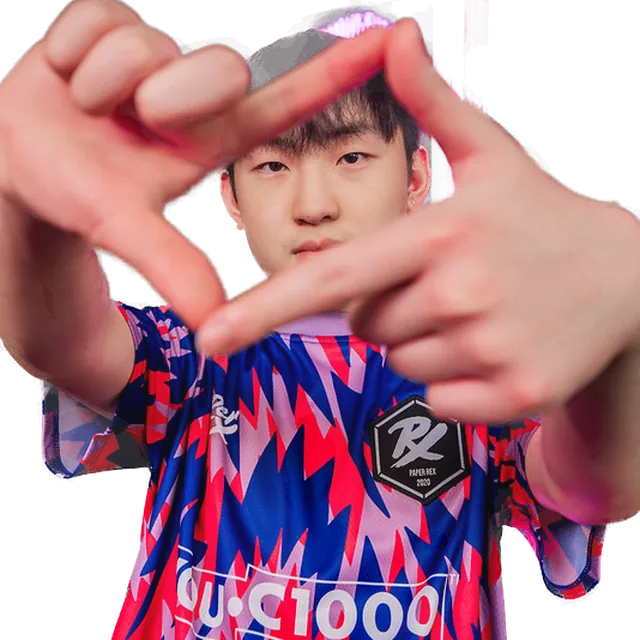
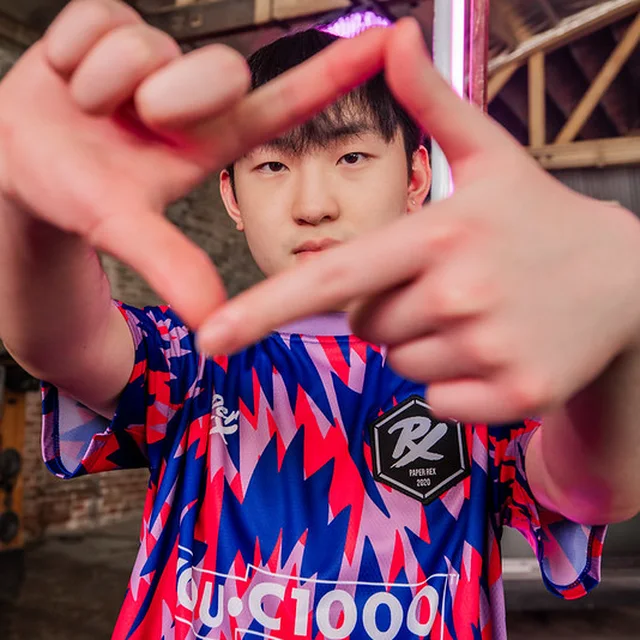
洛杉矶 2023: Jinggg pinned to his first-version photo and face style (owner: 保持第一版，以后不要改)
Faces carry a style per card ('raw' first-version window, 'cut' cutout); losangeles2023_faces.py
rebuilds a kept card byte-for-byte as v1 and never cuts or grades it; the share painter follows the style.

diff --git a/src/ui/cards/LosAngelesDesign.tsx b/src/ui/cards/LosAngelesDesign.tsx
@@ -1,7 +1,7 @@
 import { useState } from 'react'
 import type { CardFaceProps } from '../Card'
 import type { PlayerCard } from '../../engine/cards'
-import { LOS_ANGELES_META, LOS_ANGELES_TOTAL } from '../../engine/losangeles2023'
+import { LOS_ANGELES_META, LOS_ANGELES_TOTAL, losAngelesFace } from '../../engine/losangeles2023'
 import { natCountry } from '../../engine/nat'
 import './losAngeles2023.css'
 
@@ -22,6 +22,8 @@ export interface LosAngelesPlayer {
   evolved?: boolean
   /** the team's caller: an IGL tag after the team */
   igl?: boolean
+  /** how the photo sits on the art: 'cut' (the player cut out of his frame) or 'raw' (the frame as shot, the first version's window) */
+  photoStyle?: string
 }
 const tiers = { gold: '金卡', silver: '银卡', bronze: '铜卡' }
 
@@ -38,7 +40,7 @@ export function LosAngelesCard({ player, rarity = 'gold', blank = false, footer 
   return <article className={`la-card la-front la-${rarity}`} aria-label={`${player.ign} 洛杉矶 2023 ${tiers[rarity]}`}>
     <Scene /><div className="la-year" aria-hidden="true">23</div>
     <header className="la-front-header"><span>CHAMPIONS<br /><b>LOS ANGELES</b></span><LosAngelesEmblem /></header>
-    <div className="la-photo">{showPhoto ? <img src={player.photo} alt={player.ign} onError={() => setFailed(player.photo)} /> : <div className="la-placeholder">PLAYER PORTRAIT<span>选手照片预留</span></div>}</div>
+    <div className={`la-photo la-photo-${player.photoStyle ?? 'raw'}`}>{showPhoto ? <img src={player.photo} alt={player.ign} onError={() => setFailed(player.photo)} /> : <div className="la-placeholder">PLAYER PORTRAIT<span>选手照片预留</span></div>}</div>
     <span className="la-vertical">ONE MORE / 再进一步</span>
     <div className="la-front-shade" />
     <div className="la-rating"><b>{player.rating ?? '—'}</b><span>{player.label ?? '总评'}{player.evolved && <i className="evo-mark" title="进修过">↑</i>}</span></div>
@@ -65,6 +67,7 @@ export function LosAngelesFace({ card, level = 0, evolved = false, dupes = 0, se
     nation: (natCountry(card.nat) ?? '').toUpperCase(), number: `${pad(e.number)} / ${pad(LOS_ANGELES_TOTAL)}`,
     photo: card.face ?? undefined, rating: card.rating, acs: e.acs, kd: e.kd, maps: e.maps,
     label: `${card.role.slice(0, 2)}${level > 0 ? ` +${level}` : ''}`, evolved, igl: card.isIgl,
+    photoStyle: (losAngelesFace(e.vlrId) as { style?: string } | undefined)?.style,
   }
   return <div className={`la-face${selected ? ' sel' : ''}${dimmed ? ' dim' : ''}${onClick ? ' tap' : ''}`}
     onClick={onClick} role={onClick ? 'button' : undefined} tabIndex={onClick ? 0 : undefined}

diff --git a/src/ui/cards/shareCard.ts b/src/ui/cards/shareCard.ts
@@ -17,7 +17,7 @@ import { squadTeamIdentity, teamBackdrop } from '../../engine/teamIdentity'
 import { MAX_LEVEL, RARITY_CN, cardById, isPlayerCard } from '../../engine/cards'
 import type { Card, CoachCard, PlayerCard, Rarity, Squad } from '../../engine/cards'
 import { crestUrl } from '../../engine/dossier'
-import { LOS_ANGELES_TOTAL } from '../../engine/losangeles2023'
+import { LOS_ANGELES_TOTAL, losAngelesFace } from '../../engine/losangeles2023'
 import { qrMatrix } from '../../engine/qr'
 
 export const SHARE_URL = 'https://vctgames.com'
@@ -617,16 +617,25 @@ function paintLosAngelesSeat(
     off.width = Math.ceil(pb.w)
     off.height = Math.ceil(pb.h)
     const o = off.getContext('2d')!
-    o.filter = `saturate(.72) sepia(.12) contrast(1.05) drop-shadow(0 0 ${W(1.6)}px rgba(255,154,92,.4))`
+    // a kept first-version card (style 'raw') is the frame as shot, toned and faded on every side as .la-photo-raw is
+    const raw = (losAngelesFace(entry.vlrId) as { style?: string } | undefined)?.style !== 'cut'
+    o.filter = raw ? 'saturate(.48) sepia(.2) contrast(1.08)' : `saturate(.72) sepia(.12) contrast(1.05) drop-shadow(0 0 ${W(1.6)}px rgba(255,154,92,.4))`
     const scale = Math.max(pb.w / face.width, pb.h / face.height)
     const fw = face.width * scale, fh = face.height * scale
     o.drawImage(face, (pb.w - fw) / 2, (pb.h - fh) * 0.3, fw, fh)
     o.filter = 'none'
     o.globalCompositeOperation = 'destination-in'
     const vt = o.createLinearGradient(0, 0, 0, pb.h)
-    vt.addColorStop(0.62, '#000'); vt.addColorStop(0.97, 'rgba(0,0,0,0)')
+    if (raw) { vt.addColorStop(0, 'rgba(0,0,0,0)'); vt.addColorStop(0.12, '#000'); vt.addColorStop(0.65, '#000'); vt.addColorStop(0.99, 'rgba(0,0,0,0)') }
+    else { vt.addColorStop(0.62, '#000'); vt.addColorStop(0.97, 'rgba(0,0,0,0)') }
     o.fillStyle = vt
     o.fillRect(0, 0, pb.w, pb.h)
+    if (raw) {
+      const hz = o.createLinearGradient(0, 0, pb.w, 0)
+      hz.addColorStop(0, 'rgba(0,0,0,0)'); hz.addColorStop(0.17, '#000'); hz.addColorStop(0.85, '#000'); hz.addColorStop(1, 'rgba(0,0,0,0)')
+      o.fillStyle = hz
+      o.fillRect(0, 0, pb.w, pb.h)
+    }
     ctx.drawImage(off, pb.x, pb.y, pb.w, pb.h)
   }
   // the shade rising from the foot (.la-front-shade)

diff --git a/scripts/check_losangeles2023.ts b/scripts/check_losangeles2023.ts
@@ -26,8 +26,10 @@ ok('16 支战队，每队五人', LOS_ANGELES_TEAMS.length === 16 && LOS_ANGELES
 ok('每张卡都查得到、有照片、有出场、有位置', LOS_ANGELES_CARDS.every(c => cardById(c.id) === c && !!c.face && existsSync(`public${c.face}`)
   && c.losAngeles!.maps > 0 && c.roles.length > 0))
 ok('照片是洛杉矶冠军赛的', LOS_ANGELES_CARDS.every(c => c.face!.startsWith('/events/los-angeles-2023/') && losAngelesFace(c.losAngeles!.vlrId)?.source?.includes('flickr.com/photos/valorantesports/')))
-const faces = LOS_ANGELES_CARDS.map(c => losAngelesFace(c.losAngeles!.vlrId) as { cutout?: boolean; photo?: string; confirmed?: boolean })
-ok('每张照片都把人从背景里抠出来了（只剩选手本人站在卡面上）', faces.every(f => f.cutout === true))
+const faces = LOS_ANGELES_CARDS.map(c => losAngelesFace(c.losAngeles!.vlrId) as { cutout?: boolean; photo?: string; confirmed?: boolean; keep?: boolean; style?: string })
+const jinggg = faces[LOS_ANGELES_CARDS.findIndex(c => c.ign === 'Jinggg')]
+ok('Jinggg 固定为第一版：原图、第一版卡面效果，不抠图不调色', !!jinggg.keep && jinggg.style === 'raw' && jinggg.cutout === false && jinggg.photo === '53105604568')
+ok('其余每张照片都有处理方式', faces.every(f => f.style === 'raw' || f.style === 'cut'))
 ok('whzy 用的是他自己那组照片（16:31），不是被说明写成 whz 的 Biank（16:35 那张）', faces[LOS_ANGELES_CARDS.findIndex(c => c.ign === 'whzy')].photo !== '53102991504')
 ok('Yuicaw 那张双人照主人确认过，抠图后只剩他', !!faces[LOS_ANGELES_CARDS.findIndex(c => c.ign === 'Yuicaw')].confirmed)
 ok('队名按当届：DRX、Giants（不是后来的 KRX、GX）', by('MaKo').clubTag === 'DRX' && by('Cloud').clubTag === 'GIA'

diff --git a/src/ui/cards/losAngeles2023.css b/src/ui/cards/losAngeles2023.css
@@ -19,9 +19,10 @@
 /* the photo: each player is cut out of his frame (losangeles2023_faces.py), so he stands on the card's own
    sunset — no window tint (it coloured the art behind him as a box), only a fade into the foot; the warm
    rim light ties the cutout to the sun behind it */
-.la-photo{mask-image:linear-gradient(#000 62%,transparent 97%);-webkit-mask-image:linear-gradient(#000 62%,transparent 97%);mask-composite:add}
-.la-photo:after{display:none}
-.la-photo img{object-position:50% 30%;filter:saturate(.72) sepia(.12) contrast(1.05) drop-shadow(0 0 1.6cqw #ff9a5c66) drop-shadow(0 2cqw 3cqw #17131e99)}
+.la-photo-cut{mask-image:linear-gradient(#000 62%,transparent 97%);-webkit-mask-image:linear-gradient(#000 62%,transparent 97%);mask-composite:add}
+.la-photo-cut:after{display:none}
+.la-photo-raw img{object-position:50% 30%}
+.la-photo-cut img{object-position:50% 30%;filter:saturate(.72) sepia(.12) contrast(1.05) drop-shadow(0 0 1.6cqw #ff9a5c66) drop-shadow(0 2cqw 3cqw #17131e99)}
 /* ---- 抽卡 shelf, reveal and gallery */
 .la-shelf{display:flex;gap:28px;align-items:center;padding:28px 32px;margin:0 0 20px;background:radial-gradient(ellipse at 15% 0,#a8563a40,transparent 70%),#17131e;border:1px solid #c79a6a;color:#fff0d5;border-radius:8px;overflow:hidden}
 .la-shelf-art{position:relative;min-width:180px;width:180px;height:216px;flex-shrink:0}

diff --git a/scripts/losangeles2023_faces.py b/scripts/losangeles2023_faces.py
@@ -25,7 +25,9 @@ Every pick is cut out of its background (scripts/person_cutout.swift: the person
 Vision's person instance mask), so the card shows the player alone on its own sunset — a frame's wall,
 crowd or teammate never sits on the art (owner, 2026-10-18: 背景和卡面底板融合得不自然).
 Overrides by hand: scripts/cache/losangeles2023_face_picks.json
-({ vlrId: { "id": <photo>, "side": "L"|"R"?, "confirmed": true, "note": ... } }).
+({ vlrId: { "id": <photo>, "side": "L"|"R"?, "confirmed": true, "keep": true?, "note": ... } }).
+`keep` is the owner pinning a card as it is (Jinggg, 2026-10-18): his first-version image — the frame as
+shot, no cutout, no grade — and the first-version face style (`style: "raw"`). Never change a kept card.
 """
 from __future__ import annotations
 
@@ -384,6 +386,12 @@ def crop() -> int:
     run = subprocess.run(["swift", str(ROOT / "scripts" / "person_cutout.swift"), *args], capture_output=True, text=True, check=True)
     how = {Path(json.loads(l)["out"]).stem: json.loads(l).get("how") for l in run.stdout.splitlines() if l.startswith("{") and "out" in l}
     for vid, pid, face in jobs:
+        if hand.get(vid, {}).get("keep"):
+            # pinned by the owner: the first version, exactly — the frame as shot, cropped square, no cutout or grade
+            out[vid].update(cutout=False, graded=0.0, style="raw", keep=True)
+            square(Image.open(PHOTOS / f"flickr-{pid}.jpg").convert("RGB"), face).save(OUT / f"event-{vid}.webp", "WEBP", quality=84)
+            continue
+        out[vid]["style"] = "cut"
         cut = CUT / f"{vid}.png"
         im = Image.open(cut).convert("RGBA") if how.get(vid) in ("person", "foreground") and cut.exists() else Image.open(PHOTOS / f"flickr-{pid}.jpg").convert("RGBA")
         if how.get(vid) not in ("person", "foreground"):
